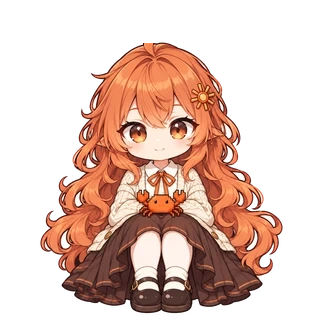
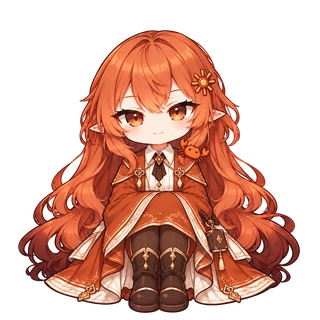
feat(tray): Claude 换新小人，头后星芒转圈，boss 气泡移到右上角
Claude 换成新形象，去掉呆毛；头后星芒作为独立部件绕头转动，
转速随状态变化，扇形遮罩只让上半圈显示，避免光芒被头发挡掉一半；
走路帧不带星芒。boss 状态气泡与工位一致放在右上角，不再压住头像。

diff --git a/apps/tray/ui/chat.css b/apps/tray/ui/chat.css
@@ -232,6 +232,19 @@ body.chat-page { height: 100vh; display: flex; flex-direction: column; overflow:
 [data-mood="done"] .fig:not(.walk) img.pendant { --swing: 16deg; animation-duration: 0.3s; }
 [data-mood="sleep"] .fig:not(.walk) img.pendant { --swing: 2deg; animation-duration: 3s; }
 @keyframes pendant-swing { from { transform: rotate(calc(-1 * var(--swing))); } to { transform: rotate(var(--swing)); } }
+/* a starburst halo sits behind the head and turns about its centre, slowly at rest, faster at work
+   and when done, barely asleep. The rays below the shoulders would pass behind the spreading hair
+   and show cut in half, so a fan fixed to the frame keeps them to the upper arc: the mask turns back
+   as fast as the ring turns on. Walking frames have no halo layer */
+@property --spin { syntax: "<angle>"; inherits: false; initial-value: 0deg; }
+.fig img.part.halo {
+  z-index: -1; --fan: conic-gradient(from calc(-1 * var(--spin)) at var(--ox) var(--oy), #000 0 92deg, transparent 112deg 248deg, #000 268deg);
+  -webkit-mask-image: var(--fan); mask-image: var(--fan); animation: halo-spin 40s linear var(--phase, 0s) infinite;
+}
+[data-mood="working"] .fig img.part.halo, [data-mood="speaking"] .fig img.part.halo { animation-duration: 12s; }
+[data-mood="done"] .fig img.part.halo { animation-duration: 4s; }
+[data-mood="sleep"] .fig img.part.halo { animation-duration: 120s; }
+@keyframes halo-spin { to { transform: rotate(360deg); --spin: 360deg; } }
 @keyframes fig-breathe { 50% { transform: scale(1.012, 1.02); } }
 @keyframes fig-squash { 0%, 88% { transform: none; } 90% { transform: scale(1.05, 0.93); } 93%, 98% { transform: none; } 99% { transform: scale(1.03, 0.96); } }
 @keyframes fig-show { 0% { opacity: 0; } 90% { opacity: 1; } 97% { opacity: 0; } }
@@ -295,10 +308,8 @@ html.paused *, html.paused *::before, html.paused *::after { animation-play-stat
 .desk-tags { position: absolute; top: 7px; left: 8px; z-index: 7; display: flex; flex-direction: column; align-items: flex-start; gap: 3px; max-width: 46%; pointer-events: none; }
 .desk-tags .tag { max-width: 100%; overflow: hidden; text-overflow: ellipsis; }
 /* the bubble sits in the card's top-right corner, above the figure like the tags opposite it */
-.desk > .say { top: 7px; right: 8px; max-width: 50%; }
-/* the bubble may overlap the empty air above the boss's head */
+.desk > .say, .boss-mid > .say { top: 7px; right: 8px; max-width: 50%; }
 .boss-mid { position: relative; padding-top: 8px; }
-.boss-mid > .say { top: 0; left: 50%; right: auto; transform: translateX(-50%); max-width: 100%; }
 /* the scene fills its card, so figure and desk grow and shrink together with the row; the 170px
    minimum card keeps them at least the size of --fig */
 .desk > .scene { width: 100%; max-width: none; }

diff --git a/apps/tray/ui/common.js b/apps/tray/ui/common.js
@@ -207,8 +207,8 @@
     return replaced[family] ? `@${family}@${replaced[family]}` : FAMILY_ART[family] || "default";
   };
   // Built-in characters may carry moving parts as layers of their own (<part>-<state>.webp): an
-  // ahoge (tuft), cat ears (ear-l, ear-r), bat wings (wing-l, wing-r) or a hairpin pendant. parts.json gives each frame's pivot at the part's root,
-  // in percent of the frame.
+  // ahoge (tuft), cat ears (ear-l, ear-r), bat wings (wing-l, wing-r), a hairpin pendant or a starburst halo. parts.json gives each frame's pivot at the part's root,
+  // in percent of the frame, also as --ox/--oy for masks that must stay centred on it.
   const parts = fetch(artUrl("parts.json")).then((r) => (r.ok ? r.json() : {})).catch(() => ({}));
   const frameUrl = (name, size, state) => {
     if (!name.startsWith("@")) return artUrl(`${size}/${name}/${state}.webp`);
@@ -236,7 +236,7 @@
       for (const [part, frames] of Object.entries(all[name] || {})) {
         for (const [state, [x, y]] of Object.entries(frames)) {
           body.append(h(`img.part.${part}.s-${state}`, { src: artUrl(`${size}/${name}/${part}-${state}.webp`), alt: "",
-            decoding: "async", draggable: "false", style: `transform-origin:${x}% ${y}%` }));
+            decoding: "async", draggable: "false", style: `transform-origin:${x}% ${y}%;--ox:${x}%;--oy:${y}%` }));
         }
       }
     });
